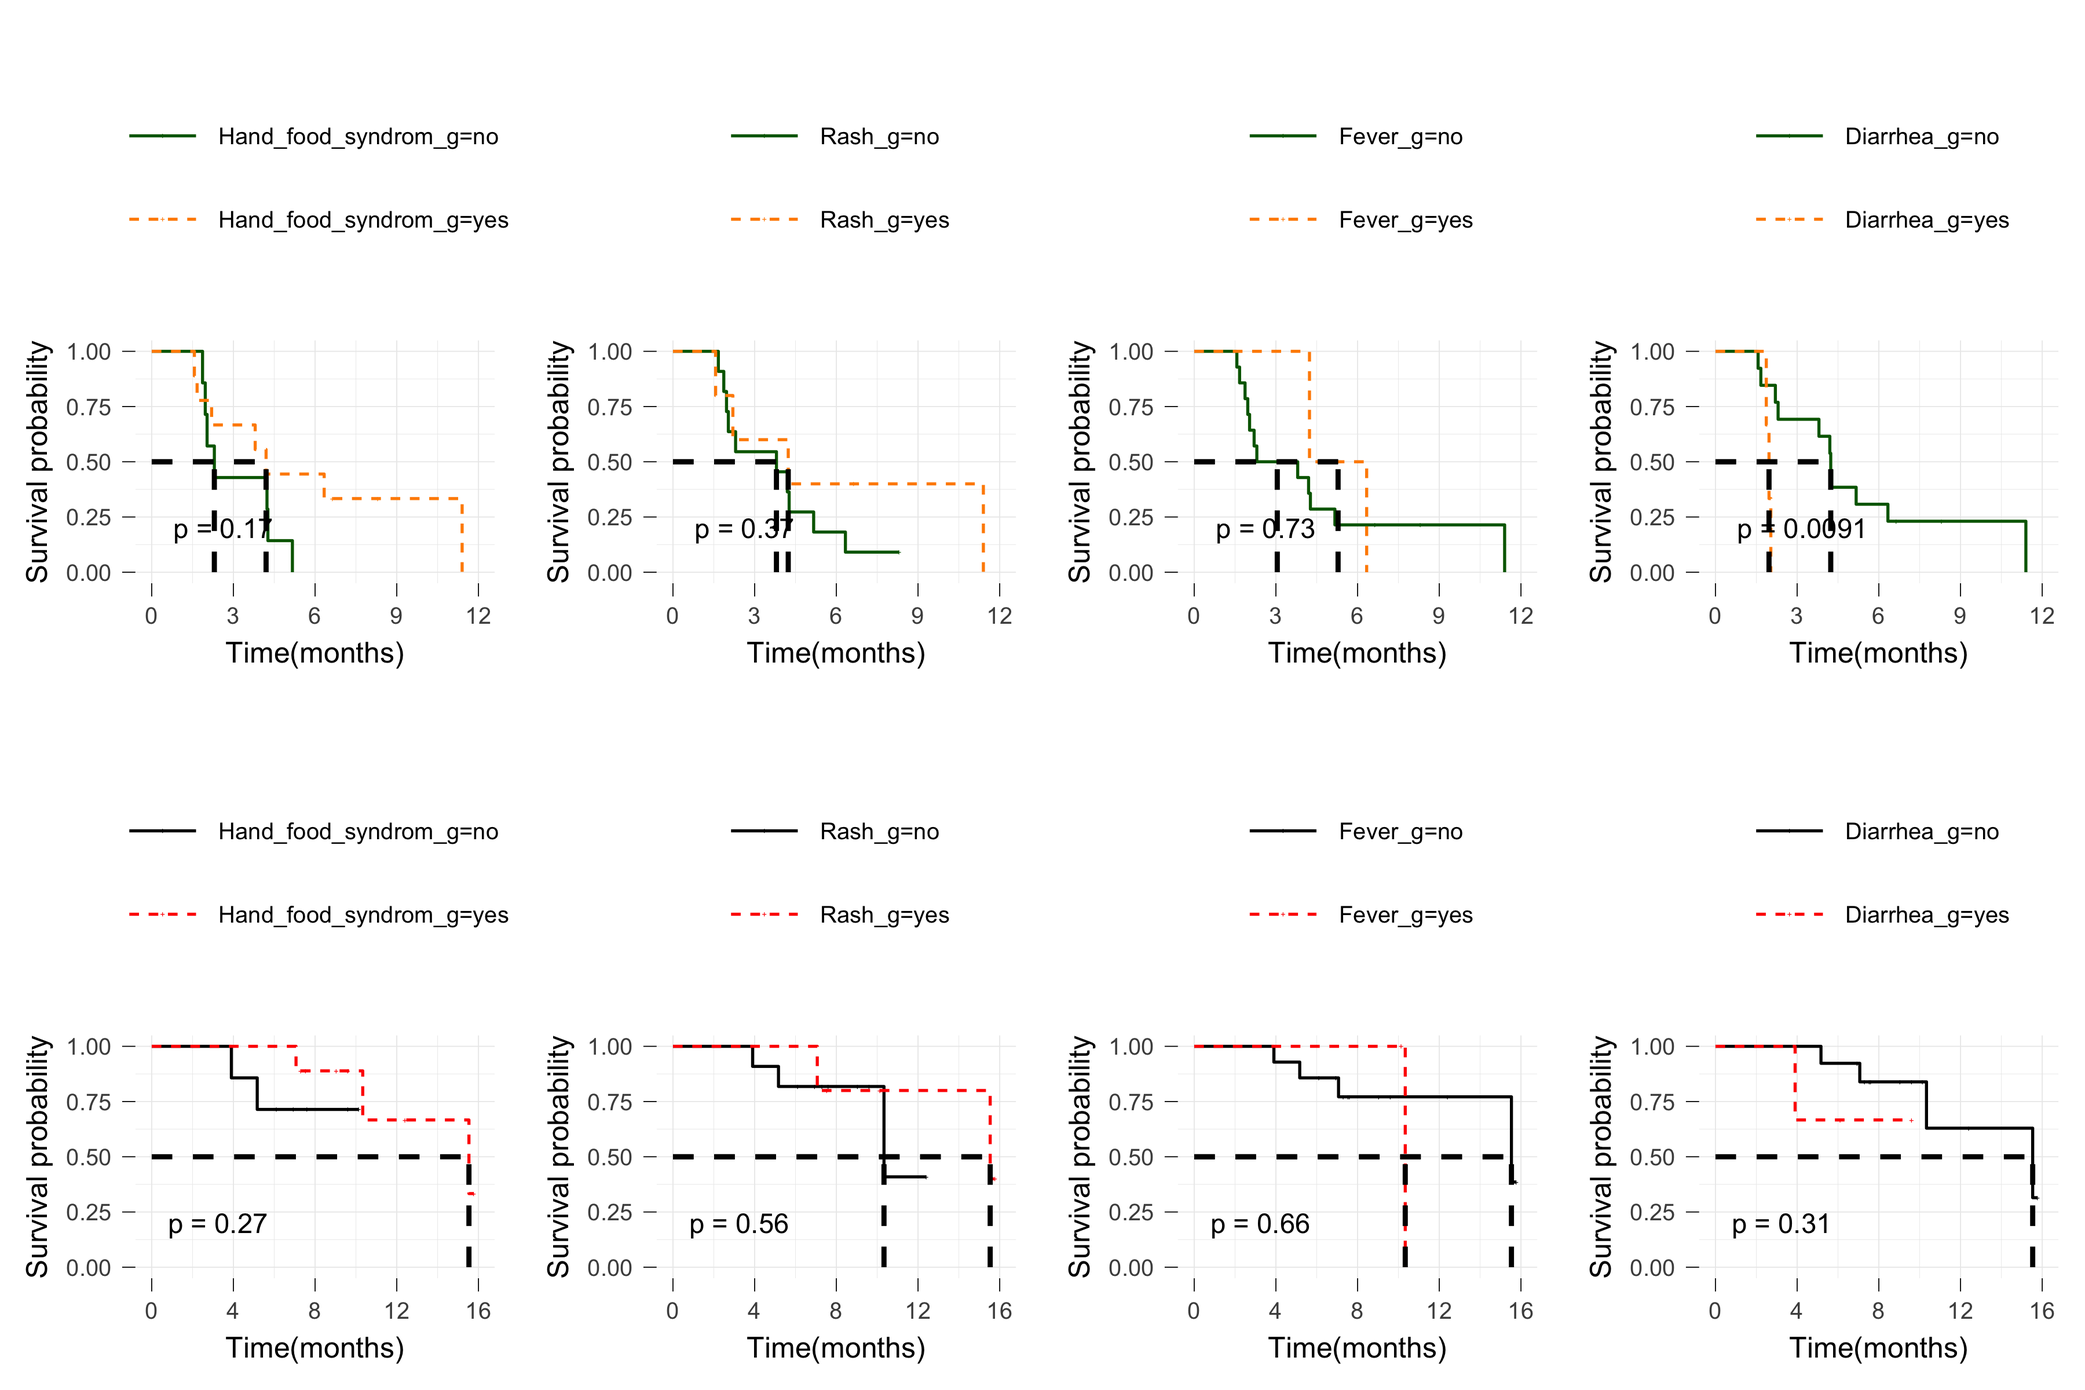
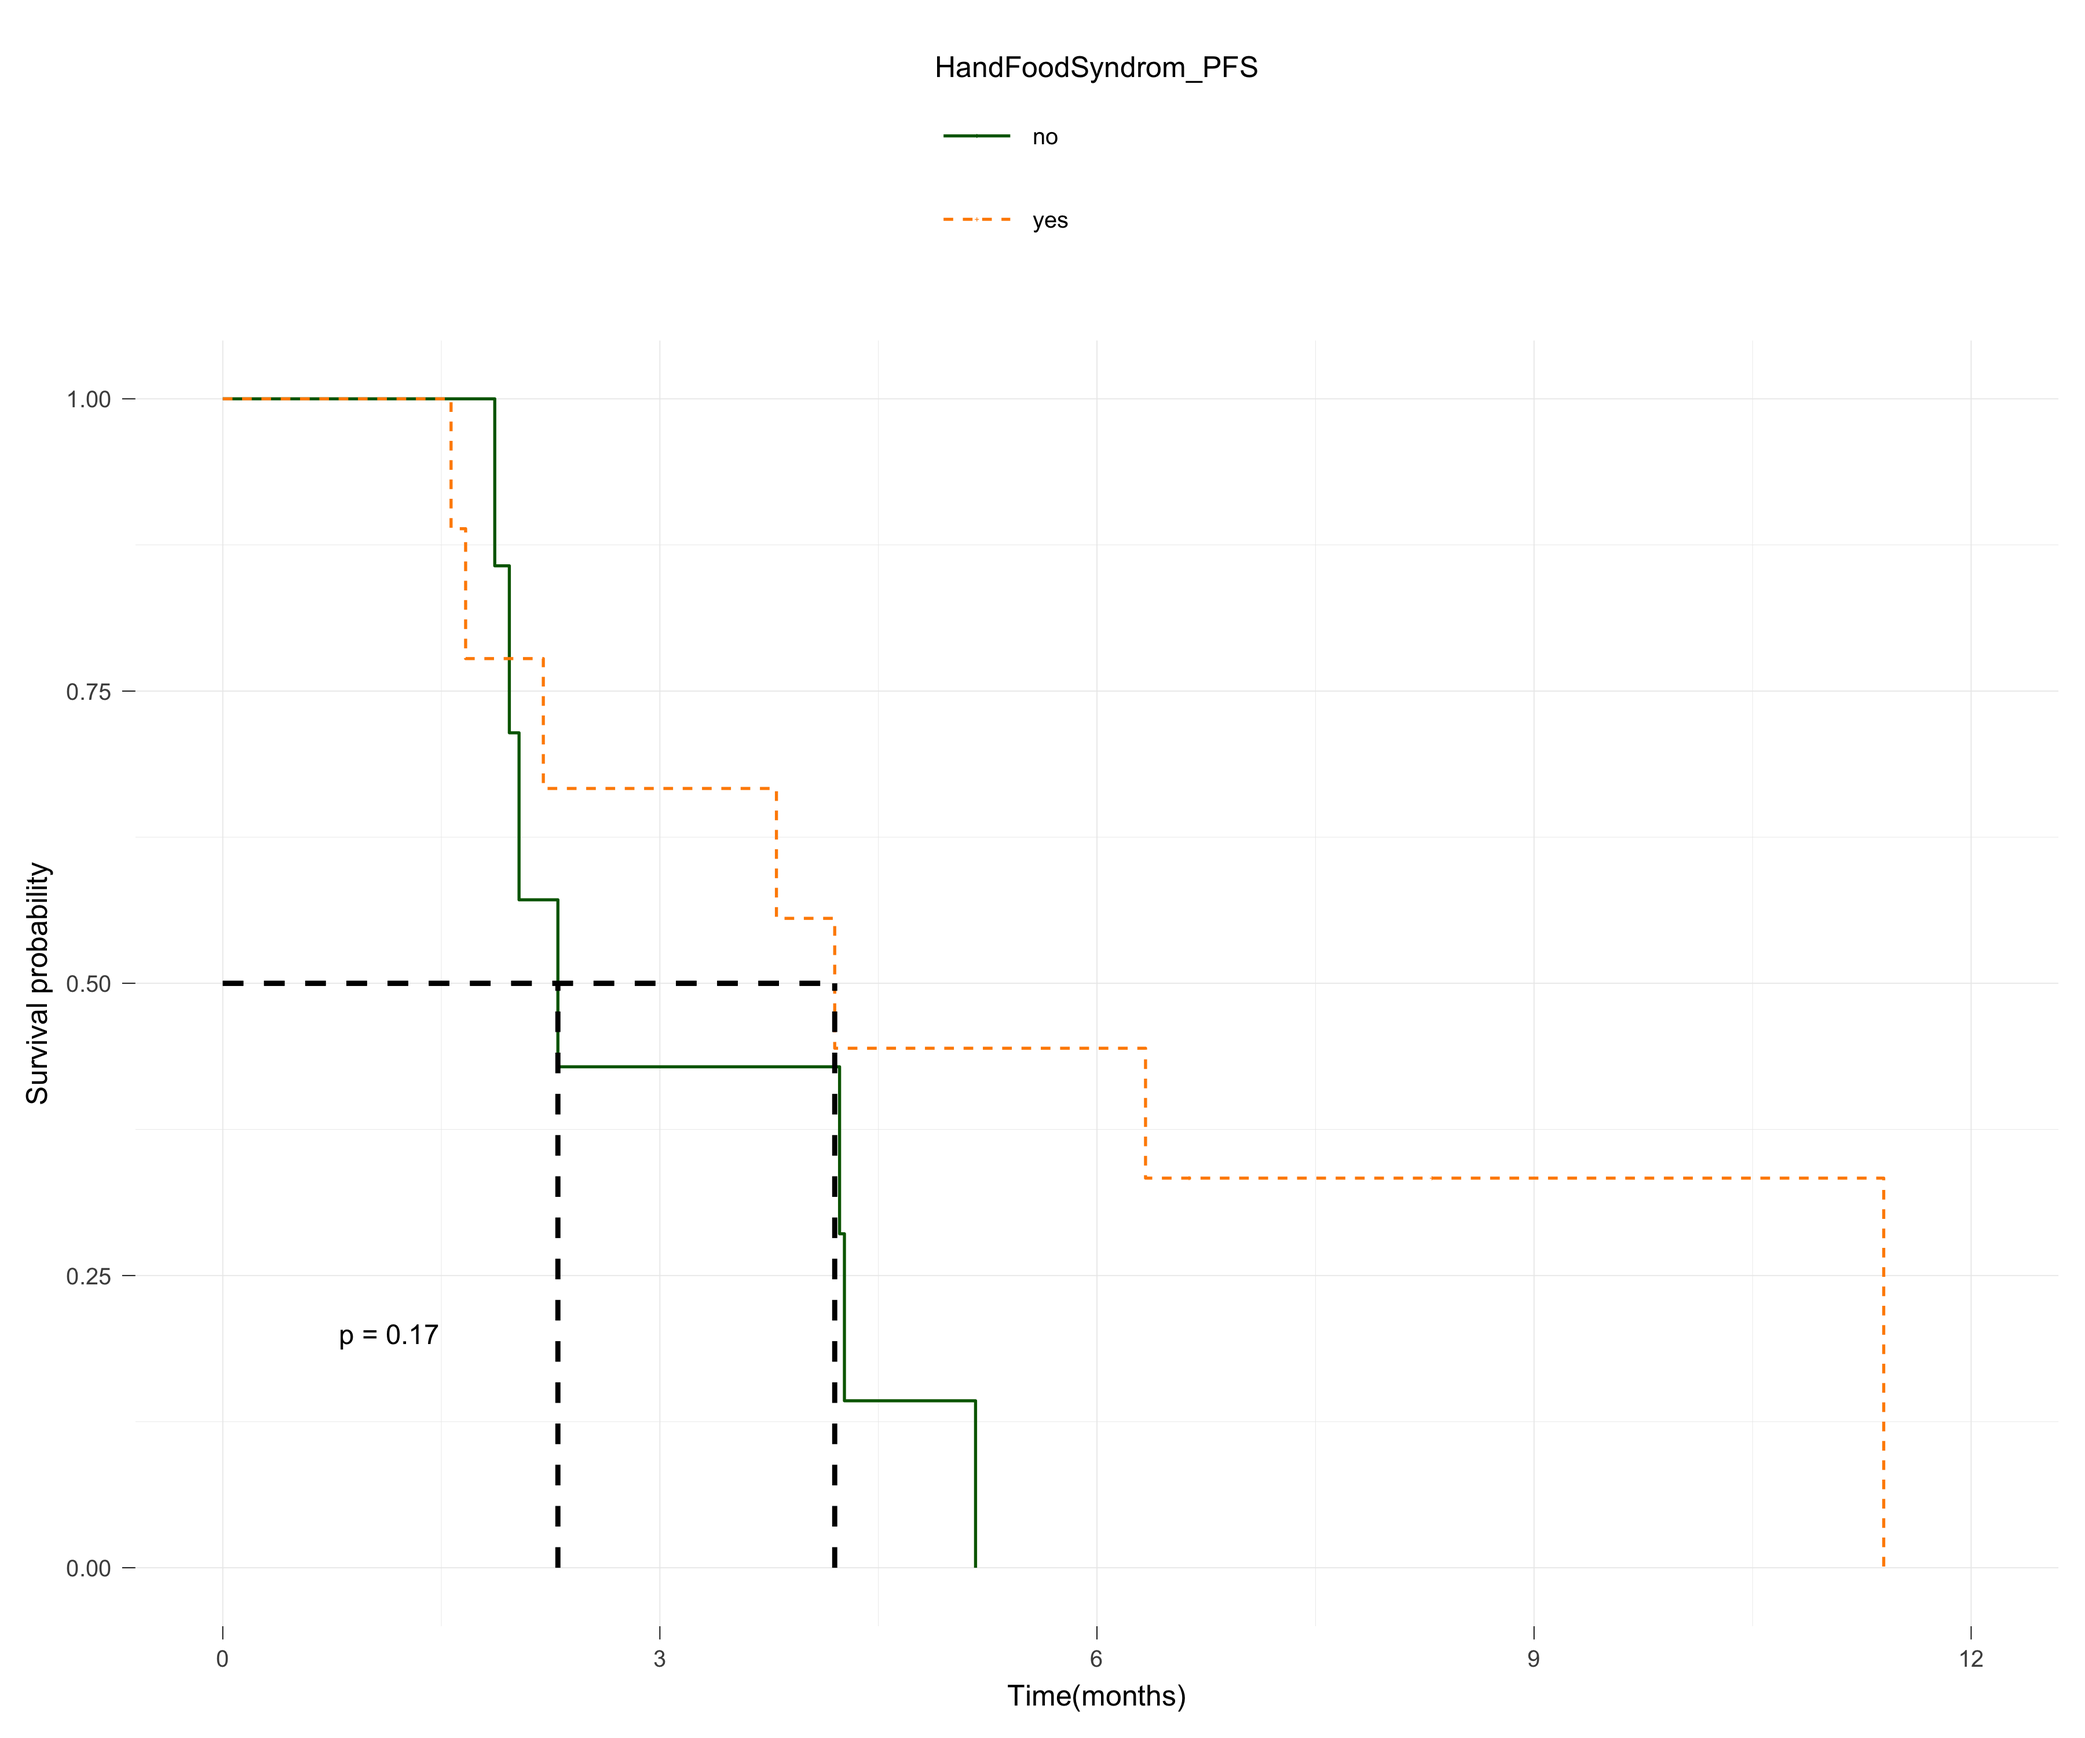
correlate the BMI and irAEs analysis publicdatasets

diff --git a/Analysis Ducoments/BMI_and_irAEs.md b/Analysis Ducoments/BMI_and_irAEs.md
@@ -12,6 +12,12 @@
     -   [1.3 BMI ralated KEGG pathways](#bmi-ralated-kegg-pathways)
     -   [1.4 Validate the clinical value of gut FBratio with public
         datasets](#validate-the-clinical-value-of-gut-fbratio-with-public-datasets)
+        -   [1.4.1 Correlation Firmucutes and
+            Bacteroidetes](#correlation-firmucutes-and-bacteroidetes)
+        -   [1.4.2 Diagnostic value of Gut FBratio in CRC
+            cohorts](#diagnostic-value-of-gut-fbratio-in-crc-cohorts)
+        -   [1.4.3 Gut FBratio in
+            immunotherapy](#gut-fbratio-in-immunotherapy)
 -   [2 Treated-related aderse events](#treated-related-aderse-events)
     -   [2.1 PFS survival curves for each
         events](#pfs-survival-curves-for-each-events)
@@ -86,8 +92,8 @@
     ggsurvplot(fit, data=data,xlab = "Time(months)",
                censor.size=0.5, size = 0.5,
                tables.theme = theme_few(base_size = 6),
-               linetype = "strata",
-                    legend.title = "",palette = c("black","red"),
+               linetype = "strata", legend.labs = c("High", "Low"),
+                    legend.title = "BMI",palette = c("black","red"),
                     risk.table = T,
                     #legend = c(0.84, 0.8),
                     pval = TRUE,pval.size = 3, 
@@ -164,6 +170,8 @@
 1.4 Validate the clinical value of gut FBratio with public datasets
 -------------------------------------------------------------------
 
+### 1.4.1 Correlation Firmucutes and Bacteroidetes
+
     df1<-fread("../Data/Data/publicData/PRJNA541981_phylum.csv",data.table = F)
     df2<-fread("../Data/Data/publicData/PRJEB22863_phylum.csv",data.table = F)
     df3<-fread("../Data/Data/publicData/PRJNA399742_phylum.csv",data.table = F)
@@ -189,6 +197,10 @@
     plot_grid(p1,p2,labels = c("A","B"), ncol =2, nrow = 1)
 
 <img src="BMI_and_irAEs_files/figure-markdown_strict/unnamed-chunk-6-1.png" width="40%" style="display: block; margin: auto;" />
+
+### 1.4.2 Diagnostic value of Gut FBratio in CRC cohorts
+
+### 1.4.3 Gut FBratio in immunotherapy
 
 2 Treated-related aderse events
 ===============================
@@ -218,6 +230,10 @@
     splots[[1]] <- surv_plot(fit_PFS, df_treat, colors = c("darkgreen", "darkorange"), 
         title = "HandFoodSyndrom_PFS")
     ## Loading required package: prodlim
+    splots[[1]]
+
+<img src="BMI_and_irAEs_files/figure-markdown_strict/unnamed-chunk-7-1.png" style="display: block; margin: auto;" />
+
     splots[[2]] <- surv_plot(fit_OS, df_treat, colors = c("black", "red"), title = "HandFoodSyndrom_OS")
 
     fit_PFS <- survfit(Surv(PFStime, PFS) ~ Rash_g, data = df_treat)
@@ -245,7 +261,7 @@
     require(survminer)
     arrange_ggsurvplots(x = splots, print = TRUE, ncol = 4, nrow = 2)
 
-<img src="BMI_and_irAEs_files/figure-markdown_strict/unnamed-chunk-7-1.png" style="display: block; margin: auto;" />
+<img src="BMI_and_irAEs_files/figure-markdown_strict/unnamed-chunk-7-2.png" style="display: block; margin: auto;" />
 
     ## Call: survfit(formula = Surv(PFStime, PFS) ~ Hand_food_syndrom_g, data = df_treat)
     ## 
